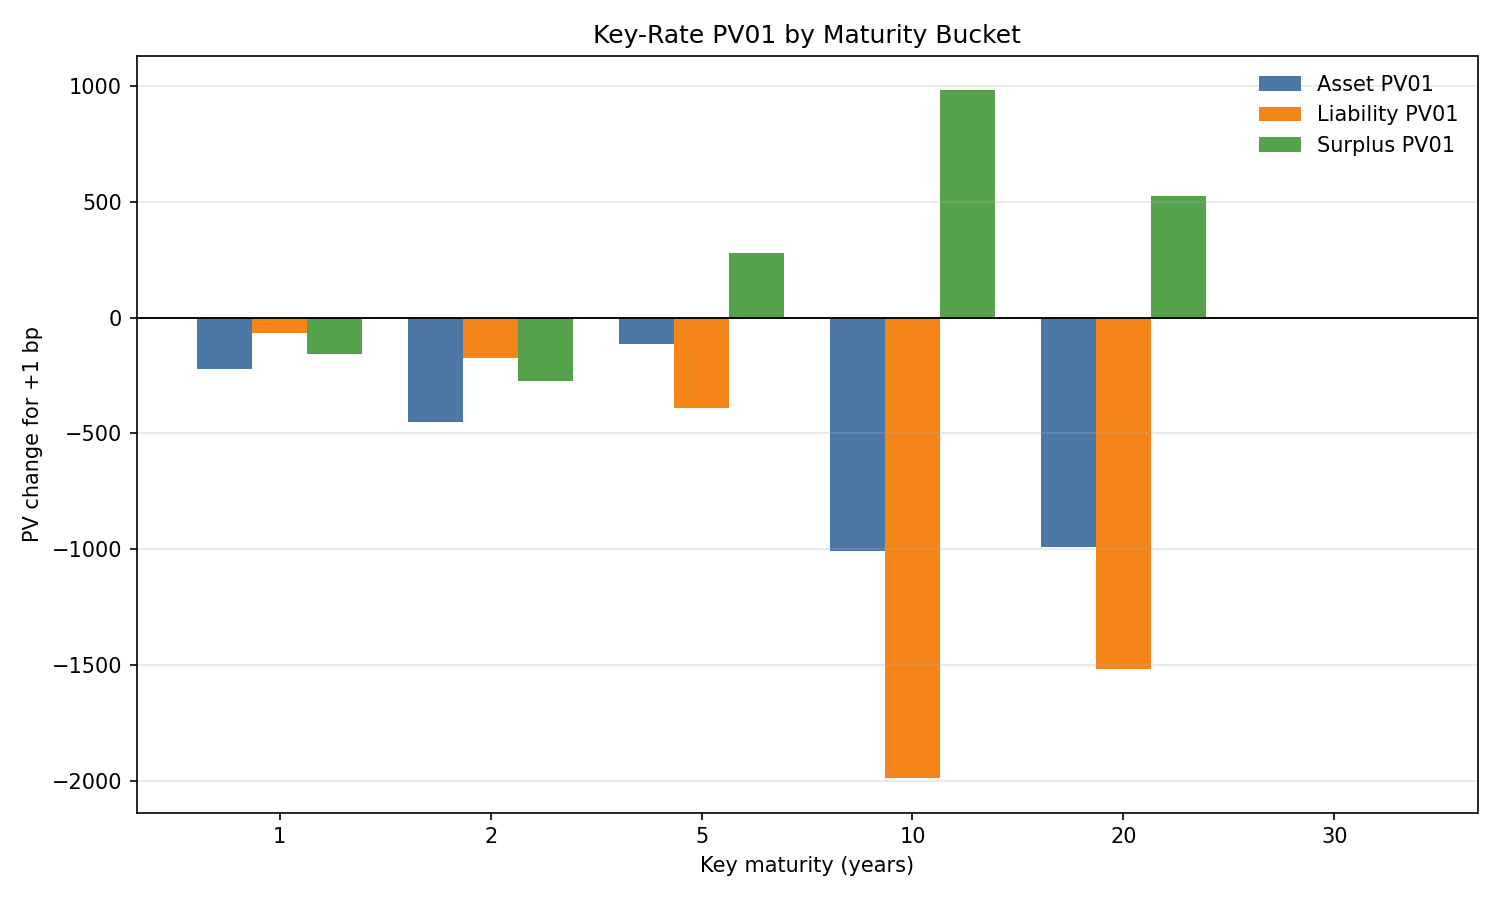
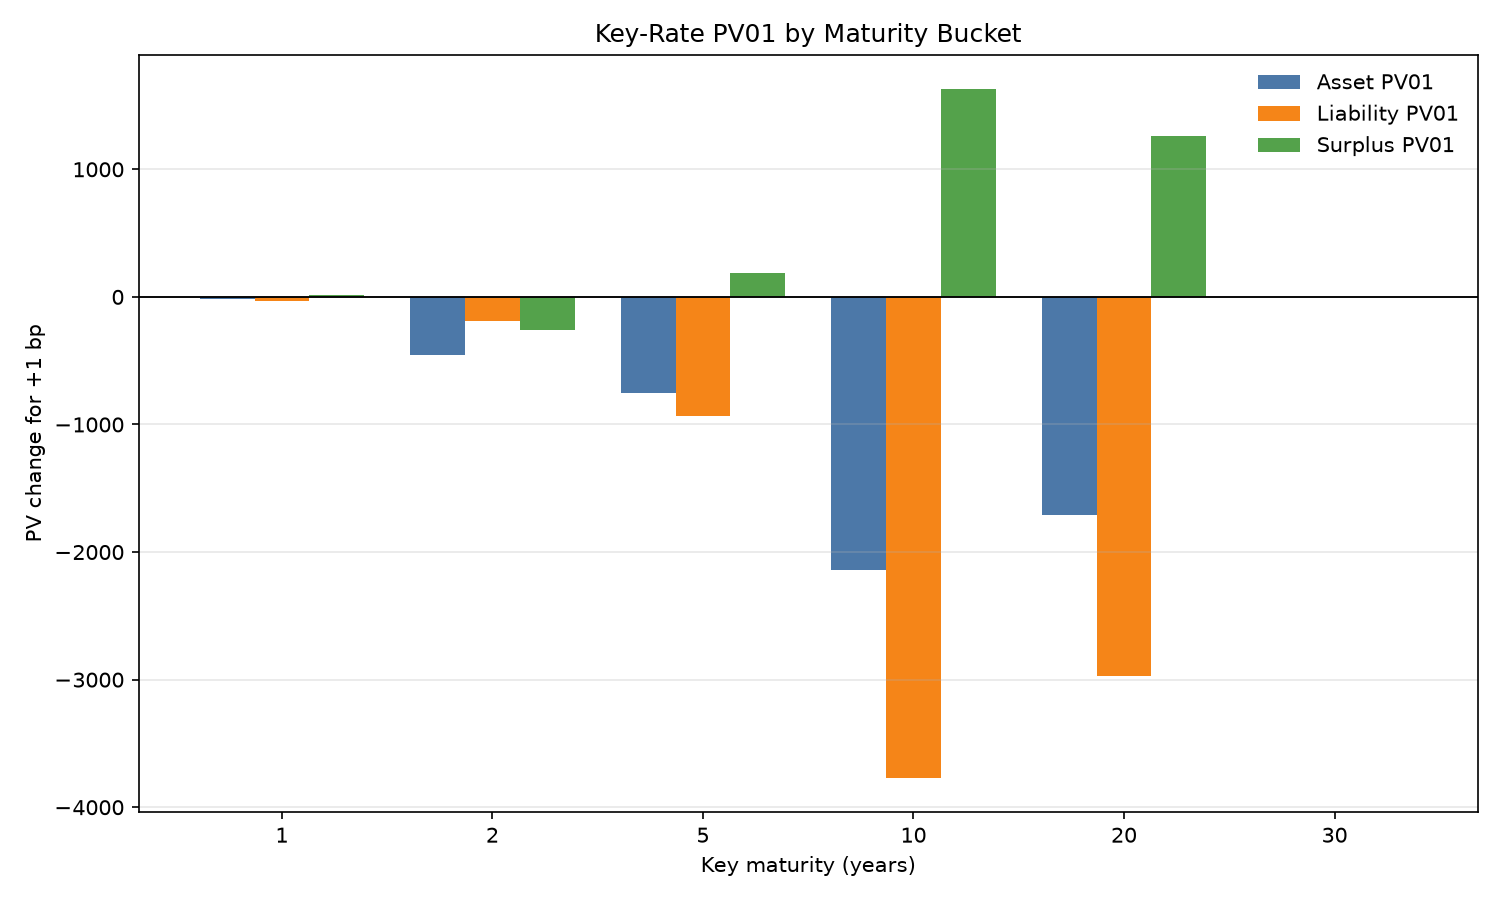
fix: make key-rate PV01 additive across key maturities
Key rates now use a piecewise-linear tent basis between neighbouring key
maturities instead of fixed-width triangles. The weights sum to one at every
maturity, so key-rate PV01s add up to the parallel PV01. The previous 2-year
triangles overlapped at the short end and missed the 3Y, 7Y and 15Y points,
capturing only about 55% of the parallel risk in the dashboard and report.

diff --git a/src/yield_curve_alm_engine/risk/key_rate.py b/src/yield_curve_alm_engine/risk/key_rate.py
@@ -9,6 +9,7 @@ from yield_curve_alm_engine.curve.base_curve import ZeroCurve
 from yield_curve_alm_engine.risk.duration_convexity import present_value_from_cash_flows
 
 REQUIRED_CASH_FLOW_COLUMNS = {"time_years", "cash_flow"}
+REPORT_KEY_MATURITIES = [1.0, 2.0, 5.0, 10.0, 20.0, 30.0]
 
 
 def _validate_cash_flows(cash_flows: pd.DataFrame) -> pd.DataFrame:
@@ -41,22 +42,50 @@ def _format_key_rate_name(key_maturity: float, shock_size: float) -> str:
     return f"key_rate_{maturity_label}_{direction}_{shock_label}"
 
 
+def key_rate_weights(
+    maturities: np.ndarray,
+    key_maturities: list[float],
+    key_maturity: float,
+) -> np.ndarray:
+    """Return tent-basis weights of one key rate on the quoted curve maturities.
+
+    Each key rate is a piecewise-linear "tent" that equals 1 at its own key
+    maturity, falls linearly to 0 at the neighbouring key maturities and is
+    flat beyond the first and last keys. The weights of all key rates sum to 1
+    at every maturity, so the key-rate PV01s add up to the parallel PV01
+    (up to second-order terms).
+    """
+    keys = np.asarray(sorted(float(key) for key in key_maturities), dtype=float)
+    if keys.size == 0:
+        raise ValueError("key_maturities must not be empty.")
+    if np.any(keys <= 0):
+        raise ValueError("key maturities must be strictly positive.")
+    if np.any(np.diff(keys) <= 0):
+        raise ValueError("key maturities must be unique.")
+    matches = np.flatnonzero(np.isclose(keys, key_maturity))
+    if matches.size == 0:
+        raise ValueError("key_maturity must be one of key_maturities.")
+
+    unit = np.zeros(keys.size)
+    unit[matches[0]] = 1.0
+    return np.interp(np.asarray(maturities, dtype=float), keys, unit)
+
+
 def apply_key_rate_shock(
     curve: ZeroCurve,
     key_maturity: float,
     shock_size: float = 0.0001,
     width: float = 1.0,
     name: str | None = None,
+    key_maturities: list[float] | None = None,
 ) -> ZeroCurve:
-    """Return a curve with a local triangular zero-rate shock.
+    """Return a curve with a local zero-rate shock around ``key_maturity``.
 
-    The weight applied to each quoted maturity is:
-
-    ``max(1 - abs(maturity - key_maturity) / width, 0)``.
-
-    If the triangular shock does not touch any quoted point, the nearest curve
-    maturity receives the full shock. This keeps the diagnostic usable for a
-    small synthetic curve with sparse maturity points.
+    When ``key_maturities`` is supplied, the shock uses the additive tent basis
+    of :func:`key_rate_weights`. Otherwise it falls back to a standalone
+    triangular shock with weight ``max(1 - abs(maturity - key_maturity) / width, 0)``;
+    if that triangle does not touch any quoted point, the nearest curve
+    maturity receives the full shock.
     """
     if key_maturity <= 0:
         raise ValueError("key_maturity must be strictly positive.")
@@ -66,11 +95,13 @@ def apply_key_rate_shock(
         raise ValueError("shock_size must be finite.")
 
     maturities = np.asarray(curve.maturities, dtype=float)
-    weights = np.maximum(1.0 - np.abs(maturities - key_maturity) / width, 0.0)
-
-    if np.allclose(weights, 0.0):
-        nearest_index = int(np.argmin(np.abs(maturities - key_maturity)))
-        weights[nearest_index] = 1.0
+    if key_maturities is not None:
+        weights = key_rate_weights(maturities, key_maturities, key_maturity)
+    else:
+        weights = np.maximum(1.0 - np.abs(maturities - key_maturity) / width, 0.0)
+        if np.allclose(weights, 0.0):
+            nearest_index = int(np.argmin(np.abs(maturities - key_maturity)))
+            weights[nearest_index] = 1.0
 
     shock_name = name or _format_key_rate_name(key_maturity, shock_size)
     return curve.with_zero_rates(curve.zero_rates + shock_size * weights, name=shock_name)
@@ -81,13 +112,13 @@ def compute_key_rate_pv01(
     curve: ZeroCurve,
     key_maturities: list[float] | None = None,
     shock_size: float = 0.0001,
-    width: float = 1.0,
 ) -> pd.DataFrame:
     """Compute local PV01 and key-rate duration for generic cash flows.
 
     ``pv01`` is defined as ``shocked_pv - base_pv`` for a local +1 bp shock by
     default. Positive cash flows should therefore have negative PV01 values
-    when rates rise.
+    when rates rise. Key rates use the additive tent basis, so the ``pv01``
+    column sums to the parallel PV01 of the cash flows.
     """
     if shock_size == 0:
         raise ValueError("shock_size must be non-zero.")
@@ -102,7 +133,7 @@ def compute_key_rate_pv01(
             curve=curve,
             key_maturity=float(key_maturity),
             shock_size=shock_size,
-            width=width,
+            key_maturities=list(keys),
         )
         shocked_pv = present_value_from_cash_flows(
             frame["time_years"],
@@ -131,7 +162,6 @@ def compute_asset_liability_key_rate_report(
     curve: ZeroCurve,
     key_maturities: list[float] | None = None,
     shock_size: float = 0.0001,
-    width: float = 1.0,
 ) -> pd.DataFrame:
     """Compute asset, liability and surplus key-rate PV01 diagnostics."""
     asset_report = compute_key_rate_pv01(
@@ -139,14 +169,12 @@ def compute_asset_liability_key_rate_report(
         curve,
         key_maturities=key_maturities,
         shock_size=shock_size,
-        width=width,
     )
     liability_report = compute_key_rate_pv01(
         liability_cash_flows,
         curve,
         key_maturities=key_maturities,
         shock_size=shock_size,
-        width=width,
     )
 
     report = pd.DataFrame(

diff --git a/src/yield_curve_alm_engine/scripts/plot_results.py b/src/yield_curve_alm_engine/scripts/plot_results.py
@@ -13,7 +13,10 @@ from yield_curve_alm_engine.curve.base_curve import ZeroCurve
 from yield_curve_alm_engine.curve.shocks import get_stress_scenarios
 from yield_curve_alm_engine.instruments.bonds import Bond
 from yield_curve_alm_engine.risk.cashflow_matching import build_cashflow_gap_report
-from yield_curve_alm_engine.risk.key_rate import compute_asset_liability_key_rate_report
+from yield_curve_alm_engine.risk.key_rate import (
+    REPORT_KEY_MATURITIES,
+    compute_asset_liability_key_rate_report,
+)
 from yield_curve_alm_engine.risk.surplus import run_surplus_scenarios
 from yield_curve_alm_engine.scripts.common import (
     add_input_arguments,
@@ -237,8 +240,7 @@ def main() -> None:
         asset_cash_flows,
         liabilities,
         base_curve,
-        key_maturities=[1.0, 2.0, 5.0, 10.0, 20.0, 30.0],
-        width=2.0,
+        key_maturities=REPORT_KEY_MATURITIES,
     )
     cashflow_gap_report = build_cashflow_gap_report(
         asset_cash_flows,

diff --git a/src/yield_curve_alm_engine/scripts/build_alm_dashboard.py b/src/yield_curve_alm_engine/scripts/build_alm_dashboard.py
@@ -15,7 +15,10 @@ from yield_curve_alm_engine.risk.immunization import (
     compute_duration_gap,
     estimate_parallel_surplus_impact,
 )
-from yield_curve_alm_engine.risk.key_rate import compute_asset_liability_key_rate_report
+from yield_curve_alm_engine.risk.key_rate import (
+    REPORT_KEY_MATURITIES,
+    compute_asset_liability_key_rate_report,
+)
 from yield_curve_alm_engine.risk.surplus import compute_balance_sheet
 from yield_curve_alm_engine.scripts.common import (
     add_input_arguments,
@@ -125,8 +128,7 @@ def build_dashboard_tables(
         asset_cash_flows=asset_cash_flows,
         liability_cash_flows=liabilities,
         curve=curve,
-        key_maturities=[1.0, 2.0, 5.0, 10.0, 20.0, 30.0],
-        width=2.0,
+        key_maturities=REPORT_KEY_MATURITIES,
     )
     cashflow_gap_report = build_cashflow_gap_report(
         asset_cash_flows=asset_cash_flows,

diff --git a/docs/methodology.md b/docs/methodology.md
@@ -79,9 +79,16 @@ available.
 
 ## Key-Rate Duration
 
-Key-rate diagnostics decompose sensitivity by maturity bucket. The
-implementation applies a local triangular shock around each key maturity and
-revalues the cash flows.
+Key-rate diagnostics decompose sensitivity by maturity bucket. Each key rate
+is shocked with a piecewise-linear tent: the weight is 1 at its key maturity,
+falls linearly to 0 at the neighbouring key maturities and is flat beyond the
+first and last keys. The cash flows are then revalued on the shocked curve.
+
+The tent weights of all key rates sum to 1 at every quoted maturity. Because
+the curve is linearly interpolated, they also sum to 1 at every cash-flow date,
+so the key-rate PV01s add up to the parallel PV01 (up to second-order terms).
+This makes the key-rate table a decomposition of the parallel risk rather than
+a set of overlapping or incomplete local shocks.
 
 For a +1 bp shock, PV01 is reported as:
 
@@ -92,7 +99,7 @@ pv01 = shocked PV - base PV
 Positive cash flows therefore usually have negative PV01 under an upward rate
 shock. Asset PV01, liability PV01 and surplus PV01 are reported separately.
 
-The triangular shock is a pedagogical approximation. It is not a replacement for
+The tent basis is a pedagogical approximation. It is not a replacement for
 curve risk systems with calibrated key-rate tenors, smooth basis functions or
 instrument-level market risk infrastructure.
 
